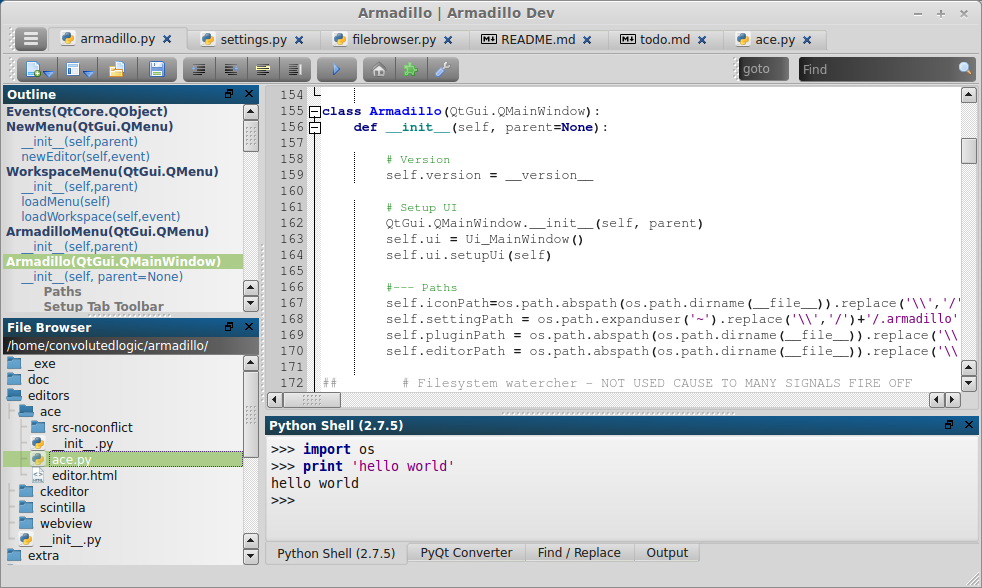
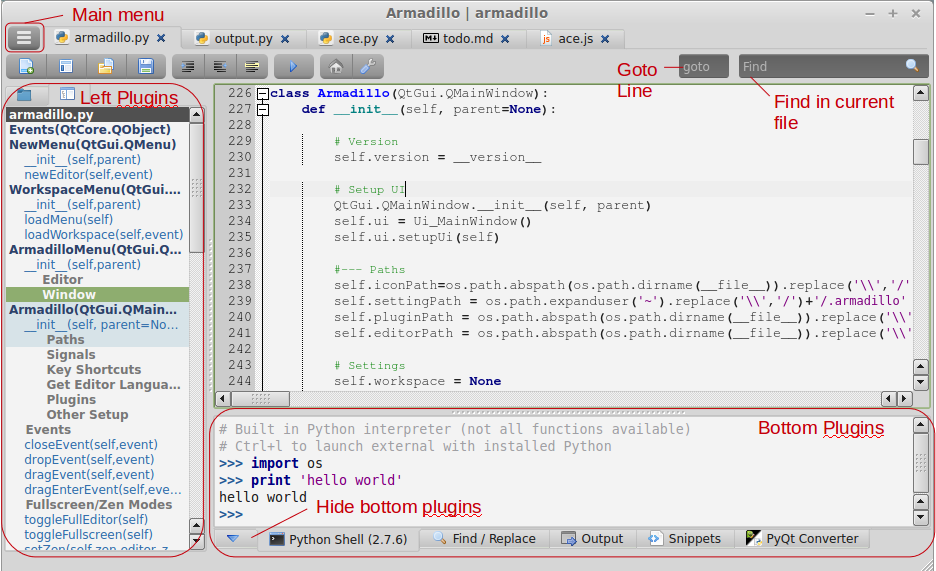
updated documentation

diff --git a/armadillo/plugins/output/outputText_ui.py b/armadillo/plugins/output/outputText_ui.py
@@ -2,7 +2,7 @@
 
 # Form implementation generated from reading ui file 'outputText.ui'
 #
-# Created: Mon Dec 22 18:19:39 2014
+# Created: Sat Jan  3 22:55:43 2015
 #      by: PyQt4 UI code generator 4.10.4
 #
 # WARNING! All changes made in this file will be lost!
@@ -72,6 +72,13 @@ class Ui_OutWidget(object):
         self.label_2.setObjectName(_fromUtf8("label_2"))
         self.gridLayout_2.addWidget(self.label_2, 0, 2, 1, 1)
         self.gridLayout.addWidget(self.fr_cmd, 1, 1, 1, 1)
+        self.l_title = QtGui.QLabel(OutWidget)
+        self.l_title.setStyleSheet(_fromUtf8("background-color: qlineargradient(spread:pad, x1:1, y1:1, x2:1, y2:0, stop:0 rgba(91, 91, 91, 255), stop:0.154545 rgba(129, 129, 129, 255), stop:0.831818 rgba(154, 154, 154, 255), stop:1 rgba(175, 175, 175, 255));\n"
+"color:white;border-top-right-radius:5px;border-top-left-radius:5px;padding:3px;"))
+        self.l_title.setText(_fromUtf8(""))
+        self.l_title.setWordWrap(True)
+        self.l_title.setObjectName(_fromUtf8("l_title"))
+        self.gridLayout.addWidget(self.l_title, 0, 0, 1, 2)
         self.frame_2 = QtGui.QFrame(OutWidget)
         self.frame_2.setStyleSheet(_fromUtf8("QPushButton,QToolButton {\n"
 "    background-color: qlineargradient(spread:pad, x1:1, y1:1, x2:0, y2:1, stop:0.00995025 rgba(94, 94, 94, 255), stop:0.174129 rgba(125, 125, 125, 255), stop:0.890547 rgba(164, 164, 164, 255), stop:1 rgba(188, 188, 188, 255));\n"
@@ -143,13 +150,6 @@ class Ui_OutWidget(object):
         self.b_save.setObjectName(_fromUtf8("b_save"))
         self.gridLayout_3.addWidget(self.b_save, 3, 0, 1, 1)
         self.gridLayout.addWidget(self.frame_2, 1, 0, 3, 1)
-        self.l_title = QtGui.QLabel(OutWidget)
-        self.l_title.setStyleSheet(_fromUtf8("background-color: qlineargradient(spread:pad, x1:1, y1:1, x2:1, y2:0, stop:0 rgba(91, 91, 91, 255), stop:0.154545 rgba(129, 129, 129, 255), stop:0.831818 rgba(154, 154, 154, 255), stop:1 rgba(175, 175, 175, 255));\n"
-"color:white;border-top-right-radius:5px;border-top-left-radius:5px;padding:3px;"))
-        self.l_title.setText(_fromUtf8(""))
-        self.l_title.setWordWrap(True)
-        self.l_title.setObjectName(_fromUtf8("l_title"))
-        self.gridLayout.addWidget(self.l_title, 0, 0, 1, 2)
 
         self.retranslateUi(OutWidget)
         QtCore.QObject.connect(self.b_cmd, QtCore.SIGNAL(_fromUtf8("toggled(bool)")), self.fr_cmd.setVisible)

diff --git a/armadillo/doc/overview.md b/armadillo/doc/overview.md
@@ -1,27 +1,42 @@
-<link rel="stylesheet" type="text/css" href="doc.css">
+# <img src="../img/armadillo.png" height="48px;"> Armadillo IDE | Overview
+Armadillo is a lightweight, cross-platform IDE for Python, web development and more. Armadillo is primarily coded in Python with PyQt for the main UI with some html5 interfaces via Qt's built-in WebKit browser (QWebView).
 
-# [Home](start.html) | Overview
-Armadillo is a lightweight, cross-platform IDE primarily for Python and Web Development, while also providing an editor for most languages. Armadillo is inspired by SPE, Geany, Notepad++ and Spyder. Armadillo is written in Python with PyQt for the UI. Some HTML5 is utilized for the ui with Qt's built in WebKit (QWebView).
+# Features
+- Lightweight and simple interface
+- **Multiple editors** to choose from (Scintilla, Ace, CKEditor). For example, you can use Scintilla for Python and Ace for javascript.
+- **Plugins** - Armadillo comes with default plugins located to the left and botttom of the editor. You can create your own plugins with Python and PyQt.
+    - File Browser - view files for the current workspace
+    - Outline - Provides an outline of objects and functions for some languages
+    - Python Shell - an interactive Python shell
+    - Snippets - create and manage snippets of code you may want to reuse
+- **Run code** - run code from the IDE and see any output through the Output plugin. Depending on the language, you may need to install additional tools.
+- Full Editor/Full Screen Modes - Multiple quick keys to show/hide plugins to make the best use of screenspace.
+- **Workspaces** - Armadillo will keep track of open files and the file browser path for multiple workspaces.
+- Customize with the settings file.
 
-## Features
-- **Zen Mode** - Toggle Zen mode (F11) to hide plugins and toolbar (tab bar is still visible)
-- **Run** - Run current file (Supported languages: Python, HTML, Markdown)
-- **Custom Settings** - choose the default editor for each language, and choose your favorite languages
-- **Workspaces** - Save multiple workspaces to manage multiple projects (directory path, visible plugins, last opened files)
+# Window Layout
+![](img/overview.png)
 
 ## Main Menu
 ![](img/main_menu.png)
 
-The main menu button is on the top left of the tabbar and is available during Zen Mode.  It contains functions that are not necessarily tied to a keyboard shortcut
+The main menu button is on the top left of the tabbar.  It contains all toolbar functions and a few more.
 
 - ![](../img/new.png) **New** - menu with list of default languages and all editor languages
+- ![](../img/workspace.png) **Workspaces** - Show the workspace menu (to create, delete, or open an existing workspace)
 - ![](../img/file_open.png) **Open** - Popup to select a file
 - ![](../img/save.png) **Save** - Save the current open tab
+- ![](../img/save.png) **Save As** - Save the current open tab as another name (this will create a copy)
+
+
+- **Editor** - Functions for the editor including indent, wordwrap, view whitespace and more.
+- **Window** - Show/Hide different parts of the IDE. Full Editor and Full Screen mode area also available here.
 - ![](../img/home.png) **Home** - Show the main/start page
-- ![](../img/workspace.png) **Workspaces** - Show the workspace menu (to create, delete, or open an existing workspace)
 - ![](../img/wrench.png) **Settings** - Open and edit the settings file
+
+
 - **File Check (changes)** - checks if any of the open files have been modified outside this editor. This also checks to see if the file was deleted outside the editor.
-- ![](../img/zen.png) **Zen Mode** - Toggle Zen mode (F11) to make the current editor full screen
+- **Print** - Print the current tab
 
 ## Toolbar
 ![](img/toolbar.png)
@@ -35,13 +50,12 @@ The toolbar is available for convenience, but can also be hidden as all function
 - ![](../img/indent.png) **Indent** - Indent the current line/selection
 - ![](../img/indent_remove.png) **Unindent** - Unindent the current line/selection
 - ![](../img/comment.png) **Comment** - Toggle the current line/selection as commented or uncommented (uses first line of selection to determine
-- ![](../img/wordwrap.png) **WordWrap** - Toggle on/off wordwrap for the current open tab
 - ![](../img/tri_right.png) **Run** - Run current file (Supported languages: Python, HTML, Markdown)
 - ![](../img/home.png) **Home** - Show the main/start page
 - ![](../img/wrench.png) **Settings** - Open and edit the settings file
 - **Goto** - goto a line (Ctrl + G will place the cursor here)
 - **Find** - find text in the editor (Ctrl + F will place the cursor here). For more advanced find options use the find/replace plugin.
- 
+
 ## Workspaces
 Multiple workspaces can be created in Armadillo to manage multiple projects with different views for each project.
 
@@ -56,10 +70,3 @@ The following settings are saved for each workspace:
 - Drag and drop files onto the editor to open them
 - Files are saved as utf-8
 - Tab indentation is 4 spaces
-
-## ![](../img/tri_right.png) Run
-- The run function works with the following file types:
-    - **Python** - runs in an external process and displays any output in the Output plugin.  (Only one Python file can be run at a time)
-    - **HTML** - opens in external browser
-    - **Markdown** - loads in a preview tab
-    - You can specify your own command with the run attribute in the fav_lang setting (see [settings](settings.md))

diff --git a/README.md b/README.md
@@ -2,7 +2,10 @@
 Armadillo is a lightweight, cross-platform IDE for Python, web development and more. Armadillo is primarily coded in Python with PyQt for the main UI with some html5 interfaces via Qt's built-in WebKit browser (QWebView).
 
 # Screenshots
-![Alt text](extra/screenshot.png "Screenshot")
+<a href="extra/screenshot.png" target="_blank"><img src="extra/screenshot.png" height=150></a>
+<a href="extra/screenshot_home.png" target="_blank"><img src="extra/screenshot_home.png" height=150></a>
+<a href="extra/screenshot_output.png" target="_blank"><img src="extra/screenshot_output.png" height=150></a>
+<a href="extra/screenshot_output.png" target="_blank"><img src="extra/screenshot_full_editor_mode.png" height=150></a>
 
 ## Features
 - Cross Platform - Linux, Windows, and Mac (not tested)
@@ -38,6 +41,7 @@ The latest development version is available [here](https://github.com/convoluted
 - **[Editors](armadillo/doc/editors.md)** - multiple code editors are available
 - **[Plugins](armadillo/doc/plugins.md)** - comes with default plugins
     - [Outline](armadillo/doc/plugins_outline.md) - Outline plugin for code organization
+    - File Browser - View and open files in the folder of the workspace
     - [Output](armadillo/doc/plugins_output.md) - run your code in a separate process in the IDE.
     - [Python Shell](armadillo/doc/plugins_pyconsole.md) - integrated Python Console
     - PyQt Converter - convert Qt ui files to PyQt .py files

diff --git a/armadillo/doc/settings.md b/armadillo/doc/settings.md
@@ -42,6 +42,28 @@ The settings.conf file contains the main settings to customize Armadillo.  The f
     - the list of active editors to load
 - activePlugins - these are the plugins loaded on start
 
+### Window Settings
+        [window]
+            openMode=1
+            [[pluginLeft]]
+                width=260
+                visible=1
+            [[pluginBottom]]
+                visible=1
+                height=180
+            [[pluginRight]]
+                visible=0
+                width=300
+
+- openMode - size the editor opens as
+    - 1 = almost maximum (-50 pixels)
+    - 2 = maximize
+- pluginLeft, pluginBottom, pluginRight
+    - visible 
+        - 1 = visible
+        - 0 = hidden by default (can be made visible through the Main Menu > Window menu
+    - width/height - specify default width or height the plugin window is opened to
+
 ### Editor Settings
         [editors]
             [[ace]]

diff --git a/extra/roadmap.md b/extra/roadmap.md
@@ -3,7 +3,7 @@
 Armadillo tries to balance simplicity and ease-of-use with *enough* features and extensibility. With that in mind, here is the high level roadmap for development.
 
 # Current State
-The current structure of the core Armadillo, editors, plugins, and settings is fairly stable now, although could change for 2.0.
+The current structure of the core Armadillo, editors, plugins, and settings is fairly stable now.
 
 # Ongoing Updates
 Improvements to be made sometime before or for version 2.0
@@ -16,6 +16,7 @@ Improvements to be made sometime before or for version 2.0
 - Be able to install with pip
 - Native Mac binaries
 - syntax checking option for Scintilla/Python would be nice.
+- Make output interactive
 
 # Armadillo 1.5
 - Make user customization easy without touching/forking core code

diff --git a/extra/todo.md b/extra/todo.md
@@ -8,8 +8,7 @@
 [x] add word wrap, etc. to menu
 [] interact with output
 [] fix outline tracking/updating (not quite right)
-[] at right side plugin (for preview, hide by default if no plugins)
-[] add plugin location to settings (as option)
+
 
 ## Settings/Profile Redesign
 - create settings profiles
@@ -142,6 +141,8 @@
 - [] update plugin style
 - [] new plugin - open files plugin (sort by type)
 - [] bookmark plugin (have categories, searchable)
+- [x] at right side plugin (for preview, hide by default if no plugins)
+- [x] add plugin location to settings (as option)
 
 ### Outline
 - Languages to add
